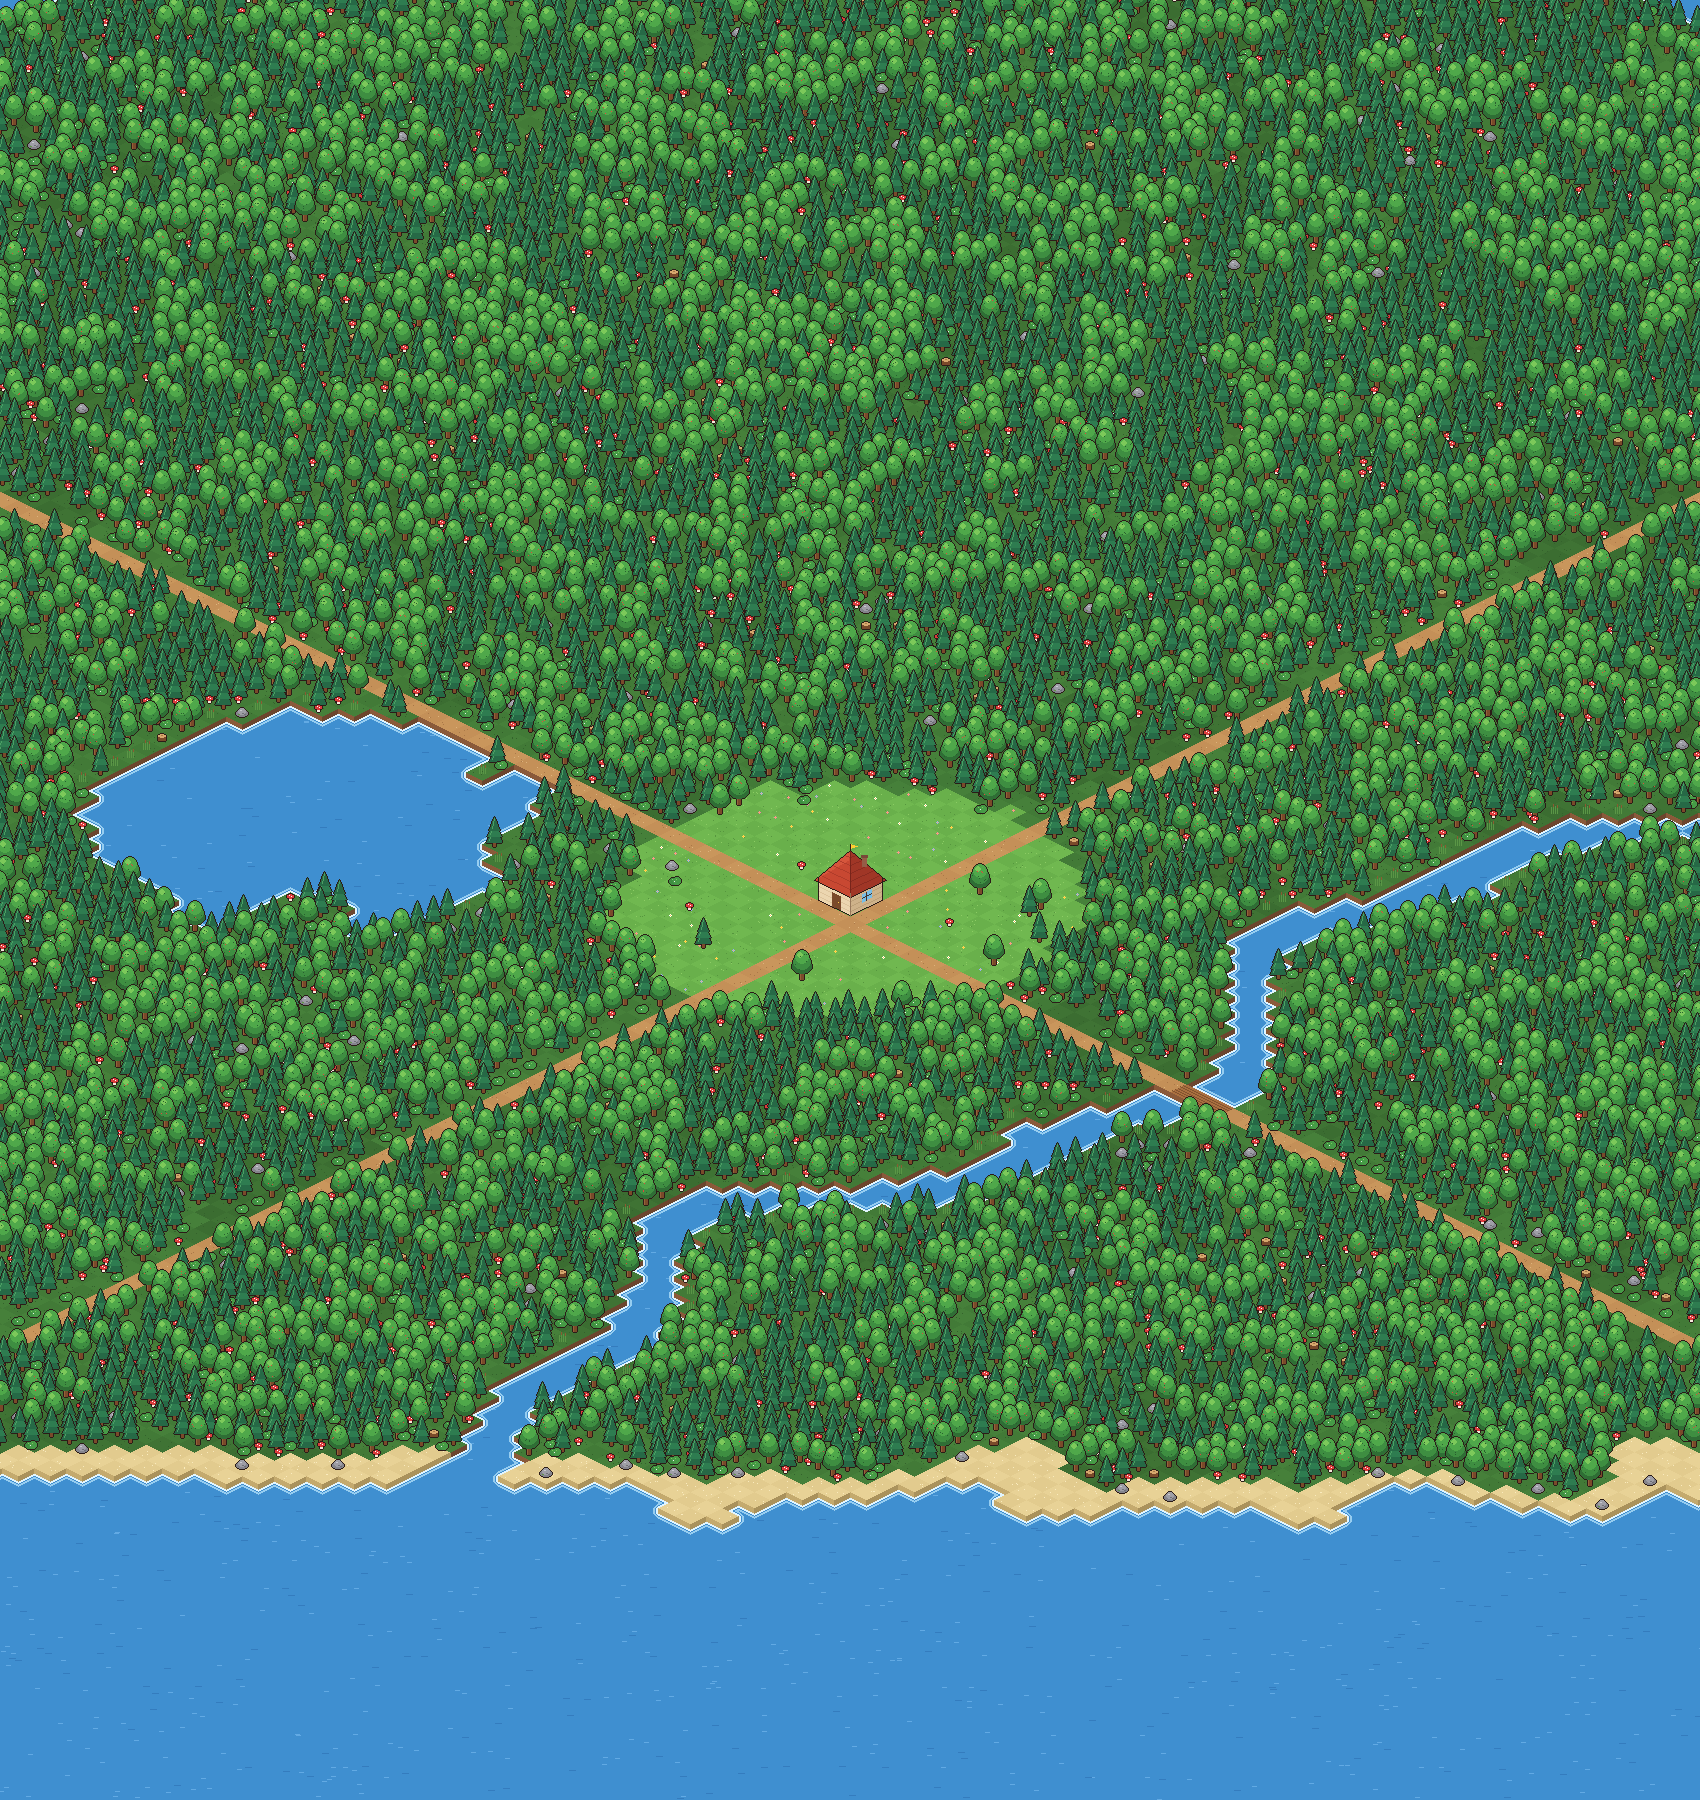
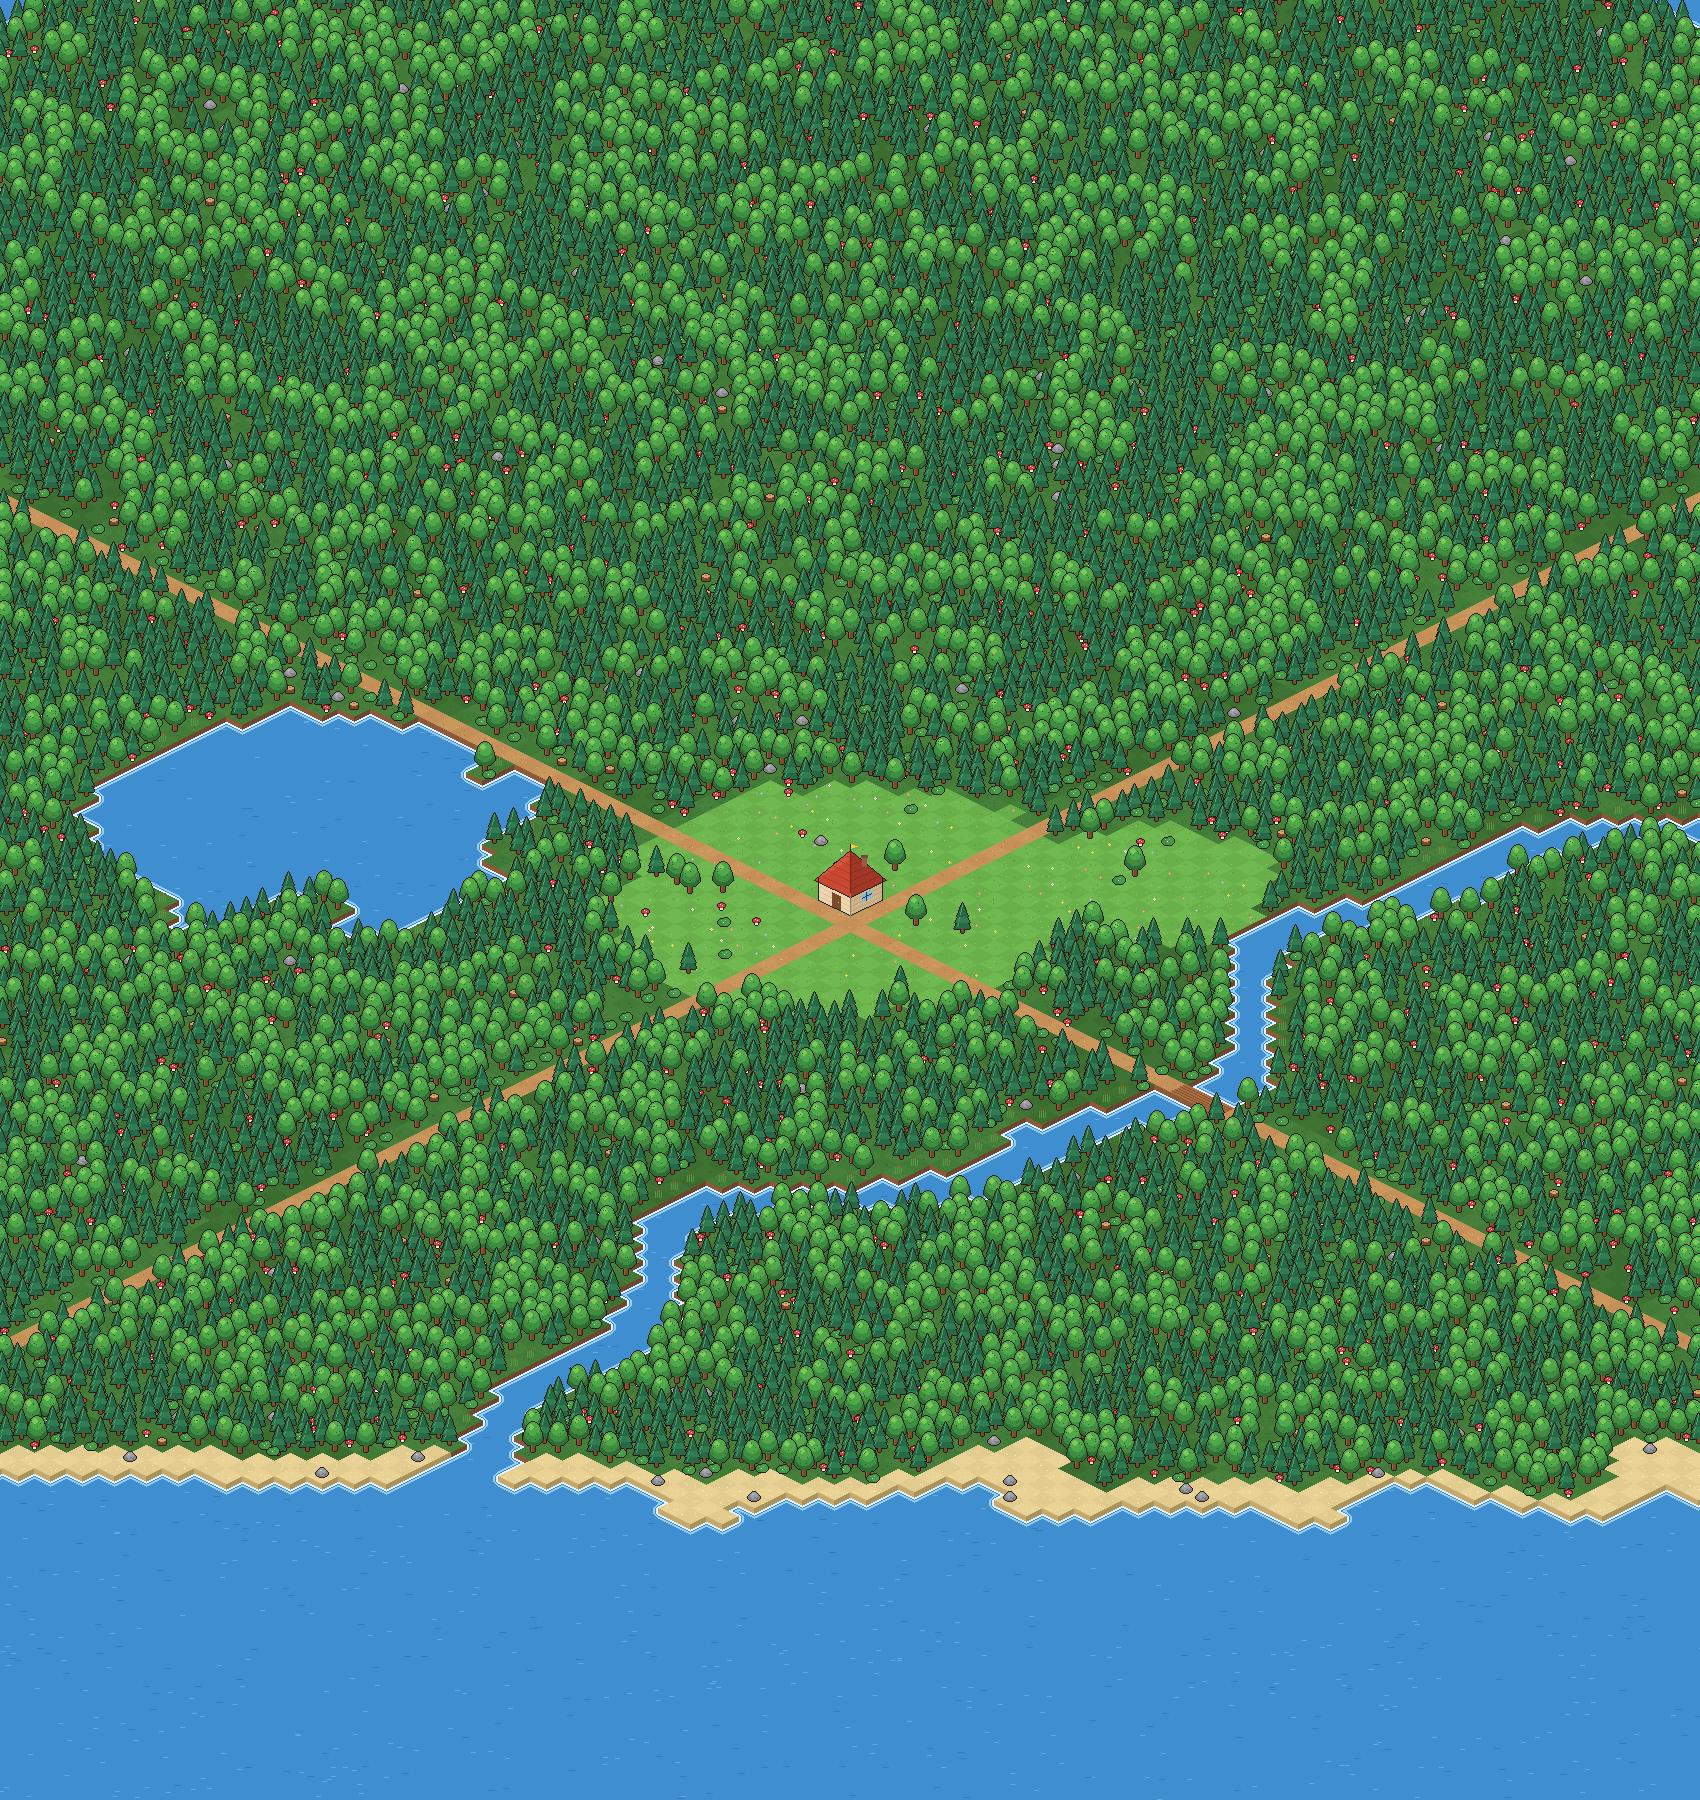
Buka lahan timur setelah Hari ke-2 tayang
Claude-Session: https://claude.ai/code/session_016JCUGjeN7C4fWr6wizx4Nt

diff --git a/public/app.js b/public/app.js
@@ -762,7 +762,7 @@
   };
 
   // bump when the map changes so browsers do not keep the old cached image
-  const WORLD_VER = '2026-10-25-hutan';
+  const WORLD_VER = '2026-10-25-lahan-timur';
   // ---------------------------------------------------------------- boot
   window.addEventListener('resize', resize);
   // ~30 fps animation loop (tick keeps the old 420 ms rhythm for lights and fireflies)

diff --git a/public/index.html b/public/index.html
@@ -162,6 +162,6 @@ Wujud Dewa: Mecha Beast</div>
 <script src="creature-hd.js?v=2026-10-25"></script>
 <script src="creature.js?v=2026-10-25"></script>
 <script src="card.js?v=2026-10-25-skill"></script>
-<script src="app.js?v=2026-10-25-skill"></script>
+<script src="app.js?v=lahantimur"></script>
 </body>
 </html>
